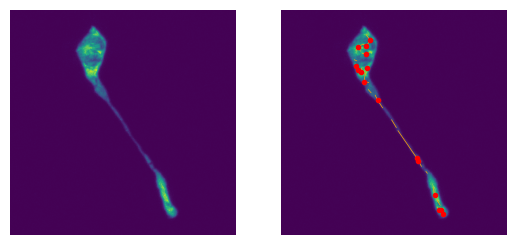
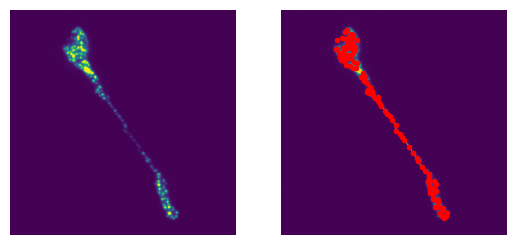
cleaned up code, deleted extra stuff. Started experimenting with using normal curve fitting to assess the lines between two points

diff --git a/find_peaks.py b/find_peaks.py
@@ -25,6 +25,7 @@ from matplotlib import collections as mc
 from findpeaks import findpeaks
 from tqdm import tqdm
 from collections import defaultdict
+import csv
 
 class Coordinate:
     """ Class for storing coordinate data. Easy to get the distance"""
@@ -251,35 +252,45 @@ def filter_peaks(slices, data):
     edges = krus_mst(coord_list)
     
     print(f"Starting with {len(coord_list)} peaks")
-    for edge in edges:
-        mid = edge.mid()
+    with open(f"edges.csv", 'w') as csvfile:
+        writer = csv.writer(csvfile)
+        for n,edge in enumerate(edges):
+            intensities = []
+            line = edge.bline()
+            for point in line:
+                intensities.append(data[point.y][point.x])
+            writer.writerow(intensities)
+
+
+
+        #mid = edge.mid()
         #print(mid)
         #print(edge.a,edge.b,mid,mid.x,mid.y)
         #print(data[edge.a.y][edge.a.x],data[edge.b.y][edge.b.x],data[mid.y][mid.x])
-        p1 = data[edge.a.y][edge.a.x]
-        p2 = data[edge.b.y][edge.b.x]
-        p3 = data[mid.y][mid.x]
-        remove = False
-        if ((p1+p2)/2-p3)/p3 > 0.4:
-            if p1 < p3:
-                if edge.a in coord_list:
-                    coord_list.remove(edge.a)
-                    remove = True
-            if p2 < p3:
-                if edge.b in coord_list:
-                    coord_list.remove(edge.b)
-                    remove = True
-            if remove:
-                edges.remove(edge)
-        else:
-            if edge.a in coord_list:
-                    coord_list.remove(edge.a)
-                    remove = True
-            if edge.b in coord_list:
-                    coord_list.remove(edge.b)
-                    remove = True
-            if remove:
-                edges.remove(edge)
+        #p1 = data[edge.a.y][edge.a.x]
+        #p2 = data[edge.b.y][edge.b.x]
+        #p3 = data[mid.y][mid.x]
+        #remove = False
+        #if ((p1+p2)/2-p3)/p3 > 0.4:
+        #    if p1 < p3:
+        #        if edge.a in coord_list:
+        #            coord_list.remove(edge.a)
+        #            remove = True
+        #    if p2 < p3:
+        #        if edge.b in coord_list:
+        #            coord_list.remove(edge.b)
+        #            remove = True
+        #    if remove:
+        #        edges.remove(edge)
+        #else:
+        #    if edge.a in coord_list:
+        #            coord_list.remove(edge.a)
+        #            remove = True
+        #    if edge.b in coord_list:
+        #            coord_list.remove(edge.b)
+        #            remove = True
+        #    if remove:
+        #        edges.remove(edge)
             
 
     print(f"Ended with {len(coord_list)} peaks")
@@ -336,7 +347,7 @@ def krus_mst(coords):
 
 #img = Image.open('data/test_data-14bit.tif')
 img = Image.open('data/FullScale_BGsub.tif')
-nframes = range(img.n_frames)[0:1]
+nframes = range(img.n_frames)[12:13]
 cycle = 0
 for i,frame in tqdm(enumerate(nframes)):
     img.seek(frame)
@@ -352,9 +363,6 @@ for i,frame in tqdm(enumerate(nframes)):
     for peak in peaks:
         xs.append(peak.x)
         ys.append(peak.y)
-    #print(xs)
-
-
     fig, axes = plt.subplots(1, 2, sharex=True, sharey=True)
     ax = axes.ravel()
     ax[cycle].imshow(data)
@@ -363,6 +371,8 @@ for i,frame in tqdm(enumerate(nframes)):
     ax[cycle].imshow(data)
     ax[cycle].axis('off')
     ax[cycle].plot(xs,ys, 'r.')
+    
+    # Draw minimum spanning tree
     lines = []
     for edge in edges:
         #print(f"({edge.a.x}, {edge.a.y}); ({edge.b.x},{edge.b.y})")
@@ -373,6 +383,7 @@ for i,frame in tqdm(enumerate(nframes)):
     #for j in range(len(xs)):
     #    plt.annotate(j, (xs[j], ys[j]))
     cycle+=1
+
     plt.autoscale(False)
     plt.savefig(f'result-{i}.png', bbox_inches = 'tight')
     cycle=0
